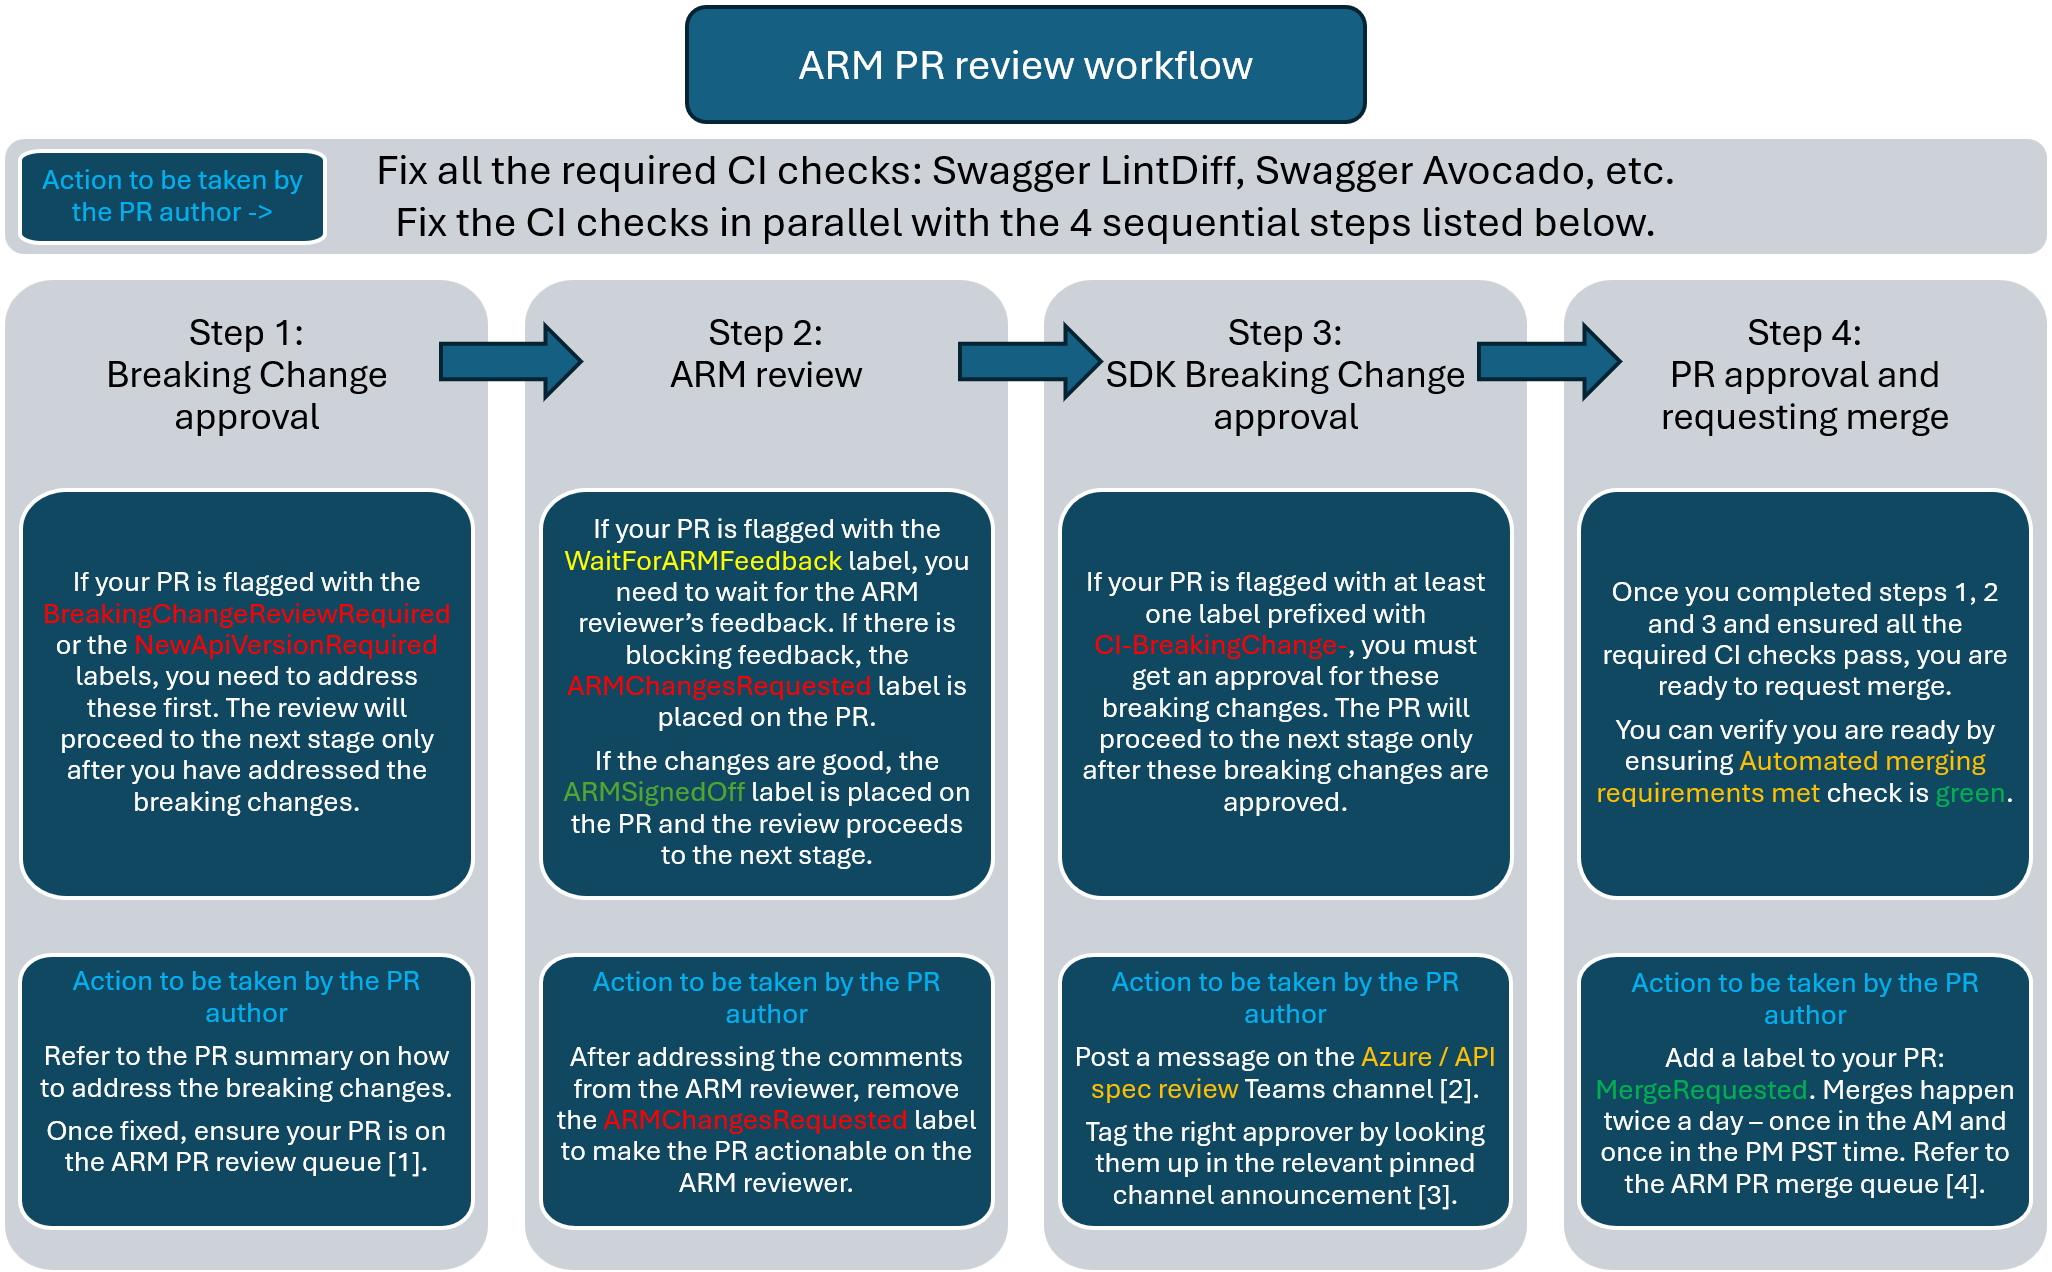
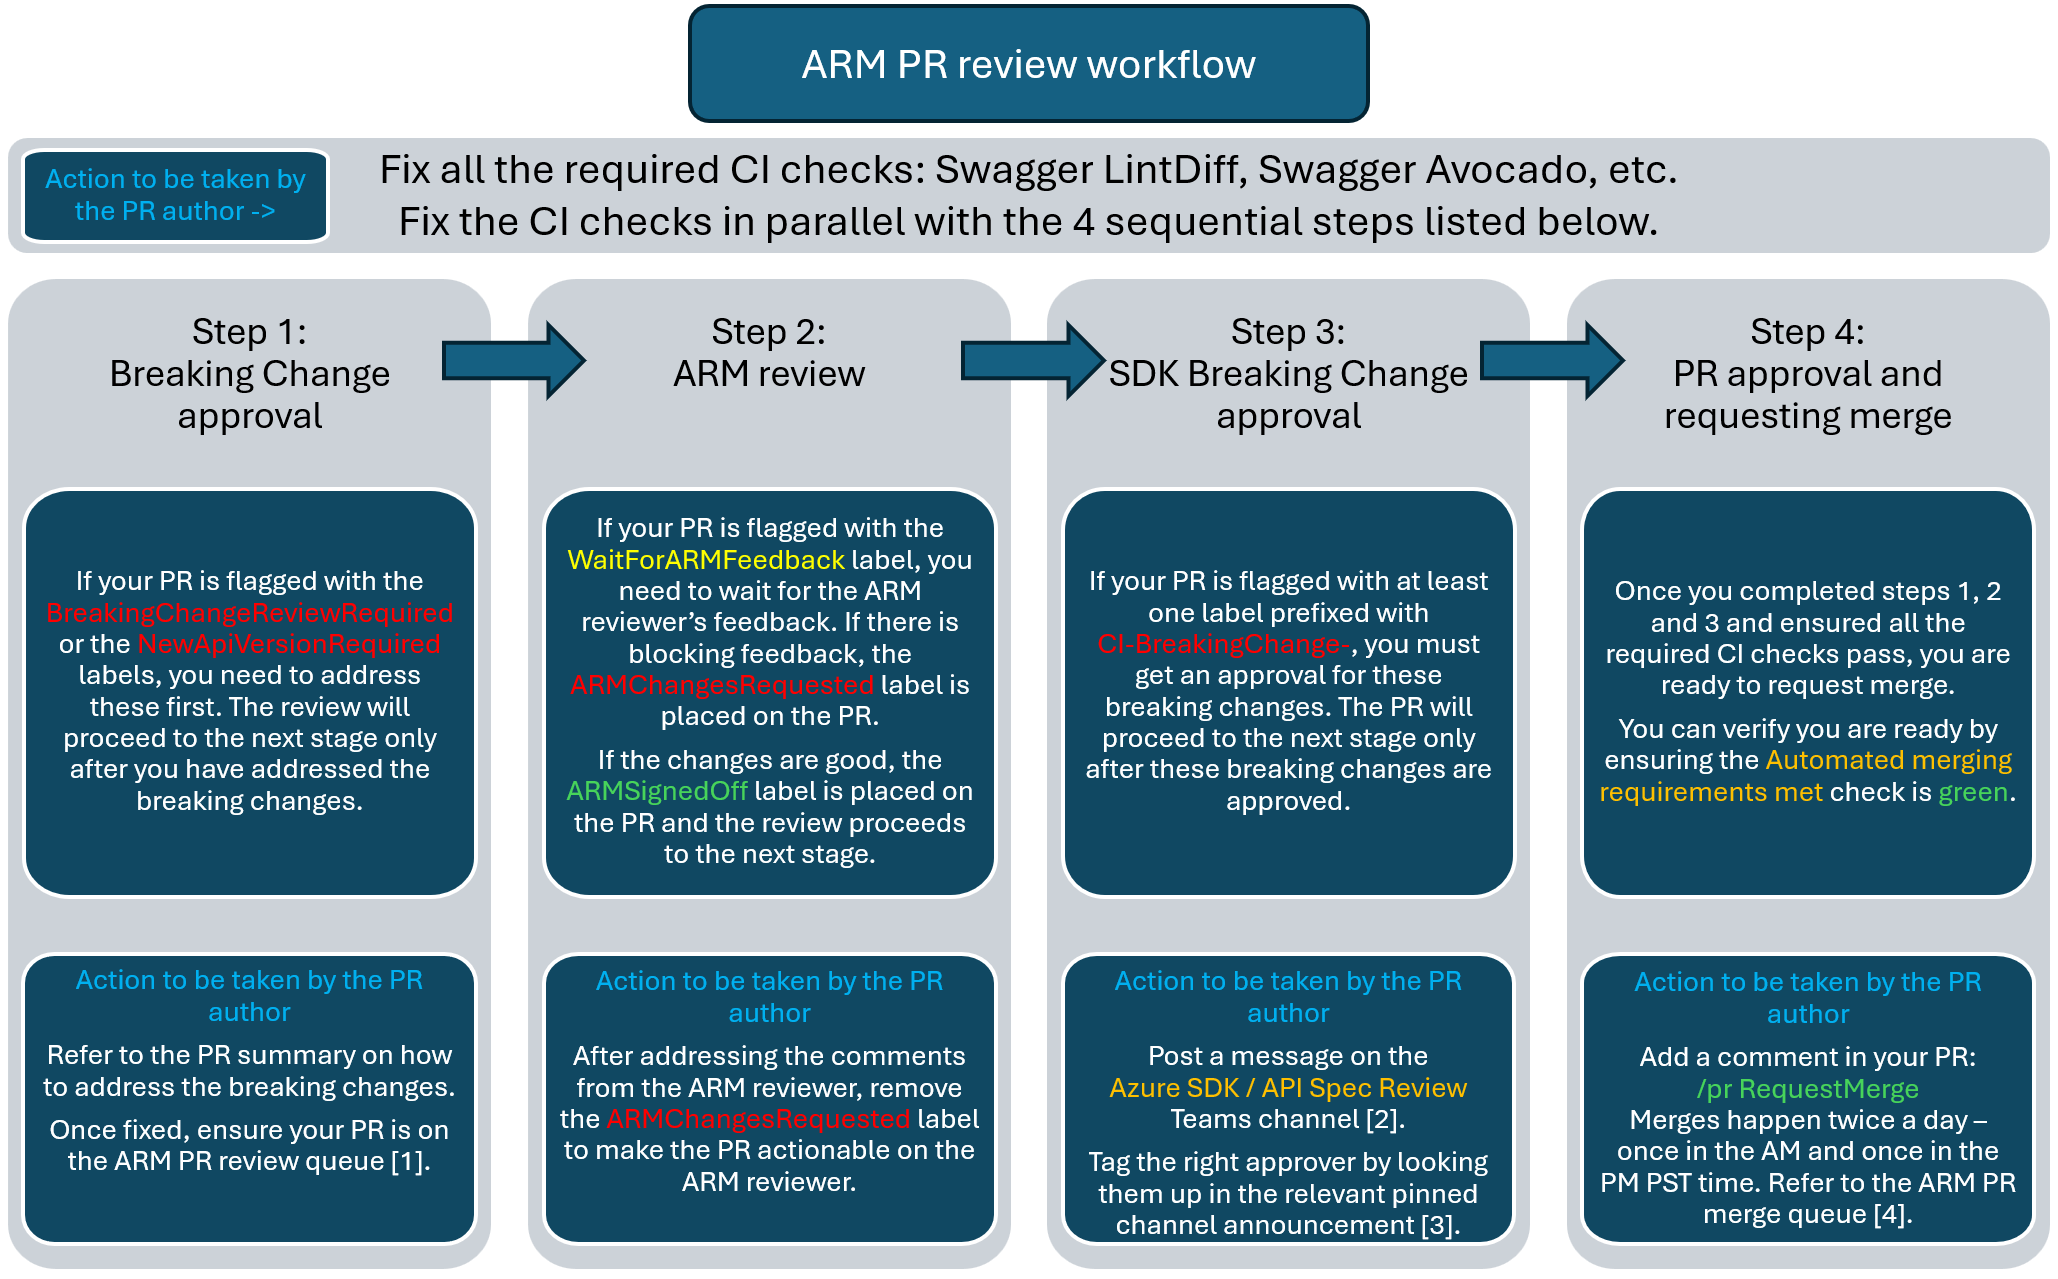
Update the ARM PR workflow diagram to use the `/pr RequestMerge` guidance. (#25093)

diff --git a/.github/PULL_REQUEST_TEMPLATE/control_plane_template.md b/.github/PULL_REQUEST_TEMPLATE/control_plane_template.md
@@ -4,7 +4,7 @@
 
 Please understand this diagram before proceeding. It explains how to get your PR approved & merged.
 
-![diagram](https://github.com/Azure/azure-rest-api-specs/assets/4429827/8cb0b0e5-55ba-44a4-9848-2faead57fcc0)
+![diagram](https://github.com/Azure/azure-rest-api-specs/assets/4429827/b321e1dc-5e07-4940-9cd6-a65ac6729a8b)
 
 [1] [public repo review queue], [private repo review queue]  
 The PRs are processed by time opened, ascending. Your PR may show up on 2nd or later page. 
